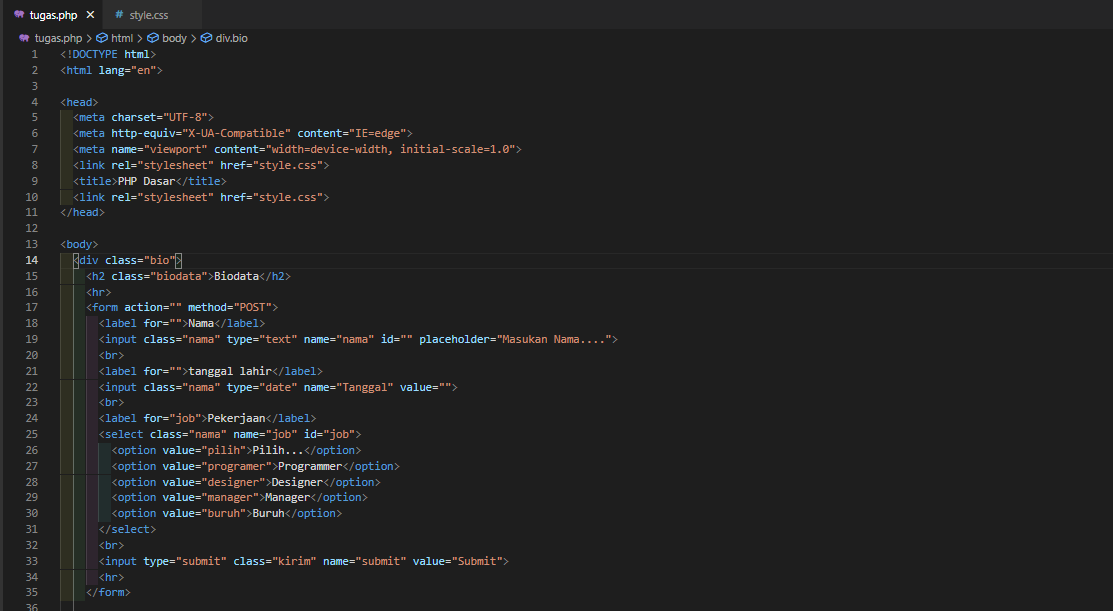
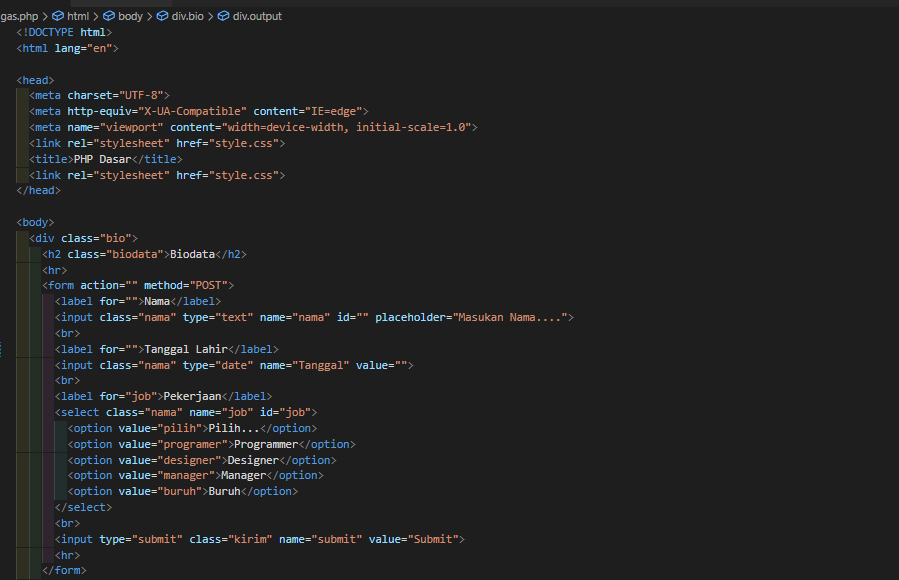
Gambar

Changed region(s): [[0.0, 0.0, 0.5918, 1.0]]

diff --git a/style.css b/style.css
@@ -15,6 +15,7 @@ body {
   text-align: center;
   text-transform: uppercase;
 }
+
 hr{
   margin-bottom: 10px;
   margin-top: 10px;
@@ -26,6 +27,8 @@ hr{
   background: white;
   margin: 50px auto;
   padding: 20px 20px;
+  border-radius: 20px;
+  box-shadow: 5px 15px 35px #1b1d1c;
   
 }
 
@@ -36,7 +39,9 @@ hr{
 }
 
 label {
-  font-size: 11pt;
+  font-size: 13pt;
+  padding-left: 15px;
+  font-weight: bold;
 }
 
 .nama {
@@ -46,6 +51,7 @@ label {
   font-size: 11pt;
   margin-bottom: 20px;
   margin-top: 10px;
+  border-radius: 20px;
 }
 
 .kirim {

diff --git a/tugas.php b/tugas.php
@@ -18,7 +18,7 @@
       <label for="">Nama</label>
       <input class="nama" type="text" name="nama" id="" placeholder="Masukan Nama....">
       <br>
-      <label for="">tanggal lahir</label>
+      <label for="">Tanggal Lahir</label>
       <input class="nama" type="date" name="Tanggal" value="">
       <br>
       <label for="job">Pekerjaan</label>
@@ -37,7 +37,7 @@
     <div class="output">
       <?php
       // Output Nama
-      echo 'nama saya ' . @$_POST['nama'];
+      echo 'nama  ' . @$_POST['nama'];
       echo '<br>';
       // Output tanggal lahir
       $tanggal_lahir = new DateTime(@$_POST['Tanggal']);
